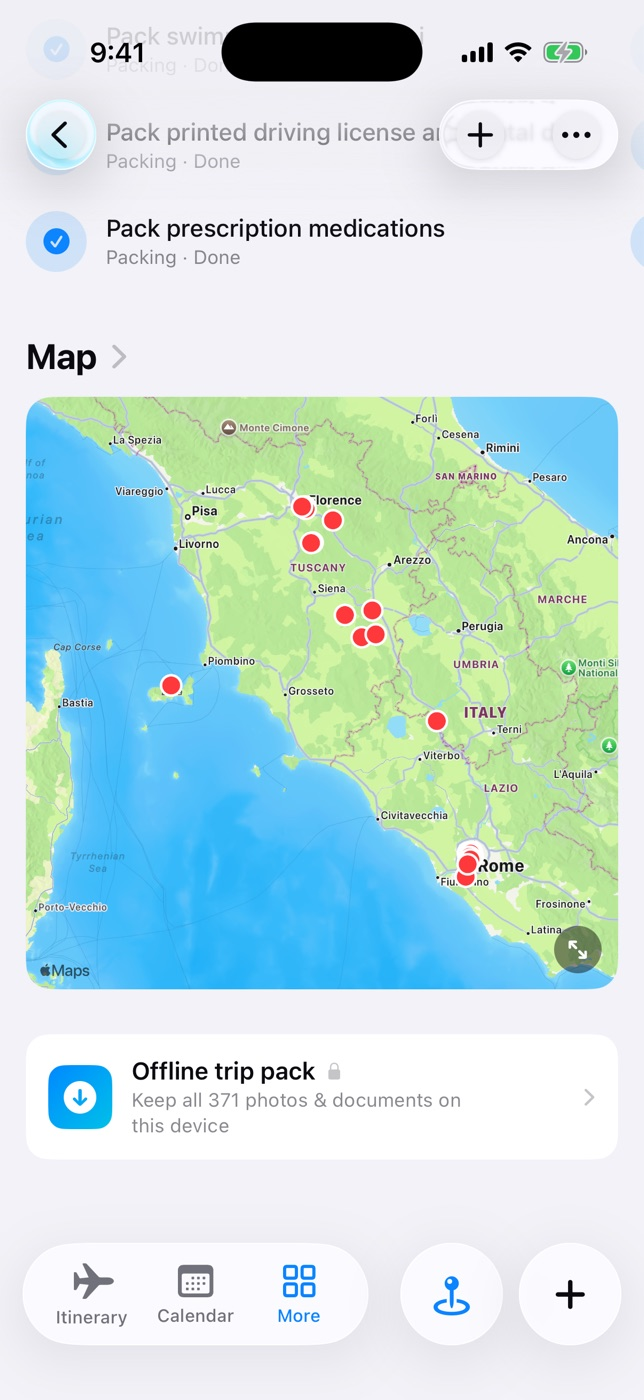
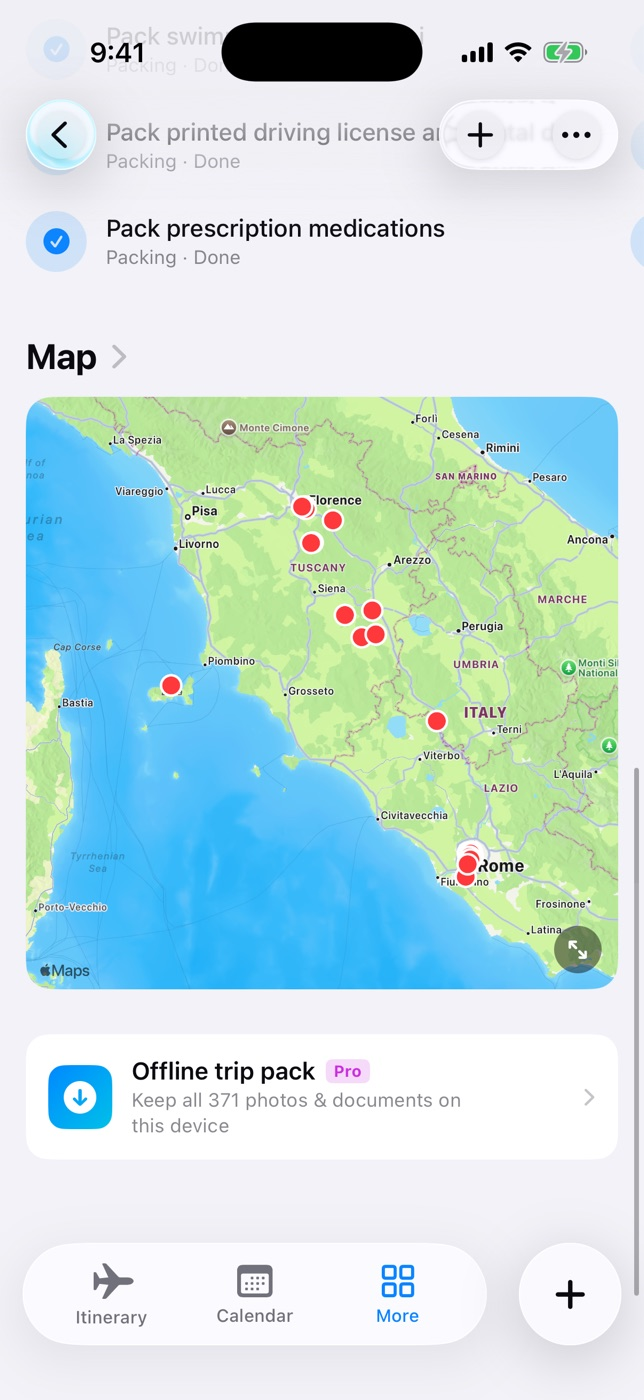
itinr: 기능 맵 중심 재구성 + 무료·프라이버시 강조, 스크린샷 2장 추가

diff --git a/itinr/index.html b/itinr/index.html
@@ -61,7 +61,7 @@
         <a class="appstore-badge" href="#download" aria-label="Download on the App Store">
           <img src="img/appstore-badge.svg" alt="Download on the App Store" />
         </a>
-        <span class="cta-note">Free to start · No sign-up</span>
+        <span class="cta-note">Free to use · No account · Data stays on your device</span>
       </div>
     </div>
     <div class="phones" aria-hidden="true">
@@ -91,7 +91,7 @@
       <div class="ds-card axis">
         <span class="icon tile"><svg class="ico" viewBox="0 0 24 24"><circle cx="18" cy="5" r="2.6"/><circle cx="6" cy="12" r="2.6"/><circle cx="18" cy="19" r="2.6"/><path d="m8.4 13.4 7.2 4.2M15.6 6.4 8.4 10.6"/></svg></span>
         <h3>Share</h3>
-        <p>The trip becomes a recap worth sharing — and keeping.</p>
+        <p>Your people follow along live — then a recap worth keeping.</p>
       </div>
     </div>
   </div>
@@ -103,22 +103,23 @@
     <div>
       <span class="ds-caption section-eyebrow">Plan</span>
       <h2 class="sec">Drop in anything.<br/>Get an itinerary.</h2>
-      <p class="sec-sub">Paste a booking email, a link, or snap a confirmation — AI pulls out the
-      flights, hotels and reservations into a clean day-by-day timeline. Or let it plan the whole
-      trip from your taste.</p>
+      <p class="sec-sub">Paste a booking email, a link, or snap a confirmation — flights, hotels and
+      reservations become a clean day-by-day timeline. Then discover what's around and drop it
+      straight into your day.</p>
       <ul class="bullets">
         <li><span class="bi"><svg class="ico" viewBox="0 0 24 24"><rect x="3" y="5" width="18" height="14" rx="2.5"/><path d="m3.5 7 8.5 5.5L20.5 7"/></svg></span><span><b>From your bookings</b>
           <span class="d">Emails, PDFs, photos, links — events extracted automatically, many at once.</span></span></li>
-        <li><span class="bi"><svg class="ico" viewBox="0 0 24 24"><path d="M12 3.5 13.6 8l4.4 1.6L13.6 11.2 12 15.7l-1.6-4.5L6 9.6 10.4 8 12 3.5Z"/><path d="M5 16.5 6 19l2.5 1L6 21l-1 2.5"/></svg></span><span><b>AI trip builder</b>
-          <span class="d">Your vibe → neighborhoods → hand-picked spots → a full, editable itinerary.</span></span></li>
-        <li><span class="bi"><svg class="ico" viewBox="0 0 24 24"><rect x="3" y="4.5" width="18" height="16" rx="2.5"/><path d="M3 9h18M8 3v3M16 3v3"/></svg></span><span><b>One place for everything</b>
-          <span class="d">Itinerary, map, expenses, to-dos and documents — one trip, one timeline.</span></span></li>
-        <li><span class="bi"><svg class="ico" viewBox="0 0 24 24"><circle cx="11" cy="11" r="7"/><path d="m20.5 20.5-3.8-3.8M8.3 11l2 2 3.4-3.6"/></svg></span><span><b>AI reality check</b>
-          <span class="d">Tight connections, empty days, unconfirmed bookings — caught before you fly.</span></span></li>
+        <li><span class="bi"><svg class="ico" viewBox="0 0 24 24"><circle cx="11" cy="11" r="7"/><path d="m20.5 20.5-3.8-3.8"/><circle cx="11" cy="11" r="2.2"/></svg></span><span><b>Discover nearby</b>
+          <span class="d">Find places worth adding around your hotel or your next stop — one tap adds them to your day.</span></span></li>
+        <li><span class="bi"><svg class="ico" viewBox="0 0 24 24"><rect x="3" y="4.5" width="18" height="16" rx="2.5"/><path d="M3 9h18M8 3v3M16 3v3"/></svg></span><span><b>One beautiful timeline</b>
+          <span class="d">Bookings, places, to-dos and documents — the whole trip organized day by day.</span></span></li>
+        <li><span class="bi"><svg class="ico" viewBox="0 0 24 24"><path d="M20.5 13.5A8 8 0 1 1 10.5 3.5a6.2 6.2 0 0 0 10 10Z"/></svg></span><span><b>No connection needed</b>
+          <span class="d">Your plan lives in your hand — bookings, confirmation numbers and QR codes work even in airplane mode.</span></span></li>
       </ul>
     </div>
     <div class="shots">
       <div class="shot"><img src="img/02-itinerary-timeline.jpg" alt="Itinr itinerary timeline with checked-in events" loading="lazy" /></div>
+      <div class="shot"><img src="img/06-map-offline-pack.jpg" alt="Trip map with offline trip pack" loading="lazy" /></div>
     </div>
   </div>
 </section>
@@ -128,23 +129,23 @@
   <div class="wrap feature rev left">
     <div class="shots">
       <div class="shot"><img src="img/04-checkin-nearby.jpg" alt="Check in to nearby places" loading="lazy" /></div>
-      <div class="shot"><img src="img/03-timeline-checkin-chip.jpg" alt="Timeline check-in session chip" loading="lazy" /></div>
+      <div class="shot"><img src="img/05-more-overview.jpg" alt="Photos, documents and expenses organized in one place" loading="lazy" /></div>
     </div>
     <div>
       <span class="ds-caption section-eyebrow">Capture the moment</span>
       <h2 class="sec">Check in. It pays you<br/>back on the spot.</h2>
-      <p class="sec-sub">Check in at a restaurant and Itinr tells you what to order — from AI, or from
-      a photo of the actual menu. Snap the receipt and the expense files itself. Photos, notes,
-      dishes: one tap each, all pinned to the place.</p>
+      <p class="sec-sub">One tap logs where you are — even places you just stumbled into. The menu
+      gets translated into your language with picks worth ordering, the receipt files itself, and
+      every photo lands on the right place.</p>
       <ul class="bullets">
-        <li><span class="bi"><svg class="ico" viewBox="0 0 24 24"><path d="M5 3v7a2 2 0 0 0 2 2v9M9 3v7a2 2 0 0 1-2 2M9 3v18M17 3c-1.6 1-2.2 3-2.2 5.2 0 1.8.7 3.4 2.2 3.8v10"/></svg></span><span><b>What to order</b>
-          <span class="d">Menu picks the moment you sit down — scan the real menu from a photo, link or text.</span></span></li>
-        <li><span class="bi"><svg class="ico" viewBox="0 0 24 24"><path d="M5 3h14v18l-2.3-1.3L14.3 21 12 19.7 9.7 21l-2.4-1.3L5 21V3Z"/><path d="M9 8h6M9 12h6"/></svg></span><span><b>Receipts become expenses</b>
-          <span class="d">Photograph the receipt; the expense links itself to the place, in your currency.</span></span></li>
+        <li><span class="bi"><svg class="ico" viewBox="0 0 24 24"><path d="M5 3v7a2 2 0 0 0 2 2v9M9 3v7a2 2 0 0 1-2 2M9 3v18M17 3c-1.6 1-2.2 3-2.2 5.2 0 1.8.7 3.4 2.2 3.8v10"/></svg></span><span><b>Menus, in your language</b>
+          <span class="d">Scan the real menu from a photo — get recommended dishes, translated for you.</span></span></li>
+        <li><span class="bi"><svg class="ico" viewBox="0 0 24 24"><path d="M12 21s7-5.6 7-11a7 7 0 1 0-14 0c0 5.4 7 11 7 11Z"/><circle cx="12" cy="10" r="2.6"/></svg></span><span><b>Check in without effort</b>
+          <span class="d">One tap logs a place — planned stops and brand-new discoveries alike.</span></span></li>
         <li><span class="bi"><svg class="ico" viewBox="0 0 24 24"><rect x="3" y="4" width="18" height="16" rx="2.5"/><circle cx="8.5" cy="9" r="1.6"/><path d="m4 18 5-5 4 4 3-3 4 4"/></svg></span><span><b>Everything in its place</b>
-          <span class="d">Photos, notes and dishes attach to the event — not lost in your camera roll.</span></span></li>
-        <li><span class="bi"><svg class="ico" viewBox="0 0 24 24"><path d="M20.5 13.5A8 8 0 1 1 10.5 3.5a6.2 6.2 0 0 0 10 10Z"/></svg></span><span><b>Never lose a day</b>
-          <span class="d">An evening nudge catches anything you visited but didn't get around to logging.</span></span></li>
+          <span class="d">Photos, spending, map pins and place info — organized by place, not lost in your camera roll.</span></span></li>
+        <li><span class="bi"><svg class="ico" viewBox="0 0 24 24"><path d="M5 3h14v18l-2.3-1.3L14.3 21 12 19.7 9.7 21l-2.4-1.3L5 21V3Z"/><path d="M9 8h6M9 12h6"/></svg></span><span><b>Spending, tracked</b>
+          <span class="d">Snap the receipt; the expense links itself to the place, in your currency.</span></span></li>
       </ul>
       <div class="kicker-line">Not an app that nags you to journal — one that makes recording pay off <em>right now</em>.</div>
     </div>
@@ -156,21 +157,17 @@
   <div class="wrap feature left">
     <div>
       <span class="ds-caption section-eyebrow">Share</span>
-      <h2 class="sec">When the trip ends,<br/>a story worth sharing.</h2>
-      <p class="sec-sub">The morning after you land, your recap is ready: a timeline of your trip,
-      day by day — your photos with the story written over them, every dish you ate, what it cost,
-      and the exact route you traveled. Share it as story cards or a web page, or keep it forever.</p>
+      <h2 class="sec">Share the trip —<br/>live, and after.</h2>
+      <p class="sec-sub">During the trip, your people follow along live — edit together over iCloud,
+      or send a link that opens in any browser, no app needed. And when it ends, the recap turns it
+      all into a story worth sharing.</p>
       <ul class="bullets">
-        <li><span class="bi"><svg class="ico" viewBox="0 0 24 24"><rect x="3" y="3" width="18" height="18" rx="2.5"/><path d="M3 9h18M9 21V9"/></svg></span><span><b>A timeline of your trip</b>
-          <span class="d">“Dinner at …” written over your photos, with cards, dishes and route maps.</span></span></li>
-        <li><span class="bi"><svg class="ico" viewBox="0 0 24 24"><path d="M5 3v7a2 2 0 0 0 2 2v9M9 3v7a2 2 0 0 1-2 2M9 3v18M17 3c-1.6 1-2.2 3-2.2 5.2 0 1.8.7 3.4 2.2 3.8v10"/></svg></span><span><b>Every dish, remembered</b>
-          <span class="d">What you ate — with its photo, price and ♥ — right on that restaurant's card.</span></span></li>
-        <li><span class="bi"><svg class="ico" viewBox="0 0 24 24"><path d="m9 6-6-2v13l6 2 6-2 6 2V6l-6-2-6 2Z"/><path d="M9 6v13M15 4v13"/></svg></span><span><b>Your journey, mapped</b>
-          <span class="d">Only the places you actually went — tap any amount for the full expense.</span></span></li>
-        <li><span class="bi"><svg class="ico" viewBox="0 0 24 24"><path d="M5 4v16a2 2 0 0 1 2-2h12V2H7a2 2 0 0 0-2 2Z"/><path d="M19 18H7a2 2 0 0 0-2 2"/></svg></span><span><b>AI travel story<span class="pro-pill">PRO</span></b>
-          <span class="d">A written story of your trip, drawn from your own check-ins, notes and meals.</span></span></li>
-        <li><span class="bi"><svg class="ico" viewBox="0 0 24 24"><circle cx="18" cy="5" r="2.6"/><circle cx="6" cy="12" r="2.6"/><circle cx="18" cy="19" r="2.6"/><path d="m8.4 13.4 7.2 4.2M15.6 6.4 8.4 10.6"/></svg></span><span><b>Share it, keep it</b>
-          <span class="d">Story cards for social, an HTML export, iCloud sync — yours to keep forever.</span></span></li>
+        <li><span class="bi"><svg class="ico" viewBox="0 0 24 24"><circle cx="18" cy="5" r="2.6"/><circle cx="6" cy="12" r="2.6"/><circle cx="18" cy="19" r="2.6"/><path d="m8.4 13.4 7.2 4.2M15.6 6.4 8.4 10.6"/></svg></span><span><b>Live itinerary, no app needed</b>
+          <span class="d">Share over iCloud to view or edit together — or send a live web link anyone can open in a browser.</span></span></li>
+        <li><span class="bi"><svg class="ico" viewBox="0 0 24 24"><rect x="6" y="3" width="12" height="18" rx="2.5"/><path d="M10 19h4"/></svg></span><span><b>On every device you own</b>
+          <span class="d">Your own iCloud keeps trips in sync across iPhone and iPad — no account, no server of ours.</span></span></li>
+        <li><span class="bi"><svg class="ico" viewBox="0 0 24 24"><rect x="3" y="3" width="18" height="18" rx="2.5"/><path d="M3 9h18M9 21V9"/></svg></span><span><b>Memories worth sharing</b>
+          <span class="d">The recap turns your trip into a beautiful timeline and story cards — photos, dishes, route maps and all. Yours to keep forever.</span></span></li>
       </ul>
     </div>
     <div class="shots">
@@ -183,32 +180,33 @@
 <!-- ═══════════ AI & Privacy ═══════════ -->
 <section class="center" id="trust">
   <div class="wrap">
-    <h2 class="sec">Serious AI. On your terms.</h2>
-    <p class="sec-sub">Any app can draft an itinerary. Itinr makes sure yours survives contact with
-    the real trip — and keeps your travel data private the entire way.</p>
+    <h2 class="sec">Almost everything, free.<br/>Everything, private.</h2>
+    <p class="sec-sub">Itinr isn't a trial. Planning, capturing, the recap, sharing — the whole app
+    works on the free plan. And your travel data never touches our servers, because we don't have
+    any that store it.</p>
     <div class="trust-grid">
       <div class="ds-card trust-card">
-        <span class="icon tile"><svg class="ico" viewBox="0 0 24 24"><path d="M12 3.5 13.6 8l4.4 1.6L13.6 11.2 12 15.7l-1.6-4.5L6 9.6 10.4 8 12 3.5Z"/><path d="M18 14.5l.8 2 2 .8-2 .8-.8 2-.8-2-2-.8 2-.8.8-2Z"/></svg></span>
-        <h3>Built for Apple Intelligence</h3>
-        <p>On supported iPhones, AI runs on-device — your data never leaves your phone. Plan and edit your itinerary in airplane mode.</p>
-      </div>
-      <div class="ds-card trust-card">
-        <span class="icon tile"><svg class="ico" viewBox="0 0 24 24"><path d="M7 18.5a4.2 4.2 0 0 1-.6-8.3A5.6 5.6 0 0 1 17.4 9a3.8 3.8 0 0 1 .4 7.5"/><path d="M17.8 16.5H7"/></svg></span>
-        <h3>Zero-setup AI included</h3>
-        <p>Trip Pass and Pro include managed cloud AI on any device — no keys, no setup, nothing to configure.</p>
+        <span class="icon tile"><svg class="ico" viewBox="0 0 24 24"><rect x="3" y="8" width="18" height="13" rx="2.5"/><path d="M3 12h18M12 8v13M12 8s-4.5.3-5.5-2C5.8 4.4 7 3 8.4 3 10.6 3 12 8 12 8Zm0 0s4.5.3 5.5-2c.7-1.6-.5-3-1.9-3C13.4 3 12 8 12 8Z"/></svg></span>
+        <h3>The full app, free</h3>
+        <p>Plan, capture, recap and share — Itinr's core is free forever, not a 7-day teaser. Paid plans add comfort, not the app.</p>
       </div>
       <div class="ds-card trust-card">
         <span class="icon tile"><svg class="ico" viewBox="0 0 24 24"><circle cx="8" cy="15" r="3.6"/><path d="m10.7 12.3 8-8M17 5.5 19.3 8M14.8 7.7l1.8 1.8"/></svg></span>
-        <h3>Bring your own key</h3>
-        <p>Prefer your own Claude, Gemini, OpenAI or DeepSeek account? Plug in your key — it's billed to you, not us.</p>
+        <h3>AI on your terms</h3>
+        <p>Free with your own key — Claude, Gemini, OpenAI or DeepSeek, billed at cost to you. On Apple Intelligence iPhones AI runs on-device; Trip Pass &amp; Pro add zero-setup cloud AI.</p>
+      </div>
+      <div class="ds-card trust-card">
+        <span class="icon tile"><svg class="ico" viewBox="0 0 24 24"><rect x="6" y="3" width="12" height="18" rx="2.5"/><path d="M10 18.5h4"/><path d="m9.5 10 2 2 3.5-3.5"/></svg></span>
+        <h3>No servers. Your device.</h3>
+        <p>Trips live on your iPhone and in your private iCloud. There is no Itinr database of your travels — nothing of yours to leak, mine or sell.</p>
       </div>
       <div class="ds-card trust-card">
         <span class="icon tile"><svg class="ico" viewBox="0 0 24 24"><path d="M12 3 5 5.5v6c0 4.3 3 7.2 7 8.5 4-1.3 7-4.2 7-8.5v-6L12 3Z"/><path d="m9 11.5 2 2 4-4"/></svg></span>
         <h3>No account, ever</h3>
-        <p>No sign-up, no login. Trips live on your device and your own iCloud, synced across all of yours.</p>
+        <p>No sign-up, no login, no tracking profile. Open the app and start planning.</p>
       </div>
     </div>
-    <div class="trust-tag">AI plans it. Itinr keeps it real.</div>
+    <div class="trust-tag">Your trip, on your device — free to plan, free to keep.</div>
   </div>
 </section>
 
@@ -222,12 +220,12 @@
       <div class="ds-card plan">
         <div class="name">Free</div>
         <div class="price">$0</div>
-        <div class="per">forever</div>
+        <div class="per">forever — the full app, not a trial</div>
         <ul>
-          <li>Full planning, recording &amp; recap</li>
-          <li>A taste of AI every month</li>
+          <li><b>Almost everything</b>: plan, capture, recap &amp; share</li>
+          <li>AI free with your own key (BYOK)</li>
           <li>On-device AI on supported iPhones</li>
-          <li>Bring your own API key</li>
+          <li>A taste of cloud AI every month</li>
           <li class="dim">One-tap offline trip pack</li>
         </ul>
         <a class="ds-btn ds-btn--secondary" href="#download">Start free</a>
@@ -279,8 +277,9 @@
       </details>
       <details class="ds-card">
         <summary>What can I do for free?</summary>
-        <p>Everything — planning, recording, and the recap — plus a taste of AI every month. With an
-        Apple Intelligence iPhone or your own API key, AI stays free too.</p>
+        <p>Almost everything — planning, capturing, the recap, and live sharing. AI is free too with
+        your own API key (Claude, Gemini, OpenAI, DeepSeek) or on an Apple Intelligence iPhone.
+        Paid plans mainly add convenience: zero-setup unlimited AI and the one-tap offline pack.</p>
       </details>
       <details class="ds-card">
         <summary>Is Trip Pass a subscription?</summary>
@@ -306,7 +305,7 @@
 <section class="final" id="download">
   <div class="wrap">
     <h2 class="sec">Your next trip deserves<br/>to be shared.</h2>
-    <p class="sec-sub" style="margin-bottom:32px">Free to start · No sign-up</p>
+    <p class="sec-sub" style="margin-bottom:32px">Free to use · No account · Data stays on your device</p>
     <a class="appstore-badge" href="#" aria-label="Download on the App Store">
       <img src="img/appstore-badge.svg" alt="Download on the App Store" />
     </a>